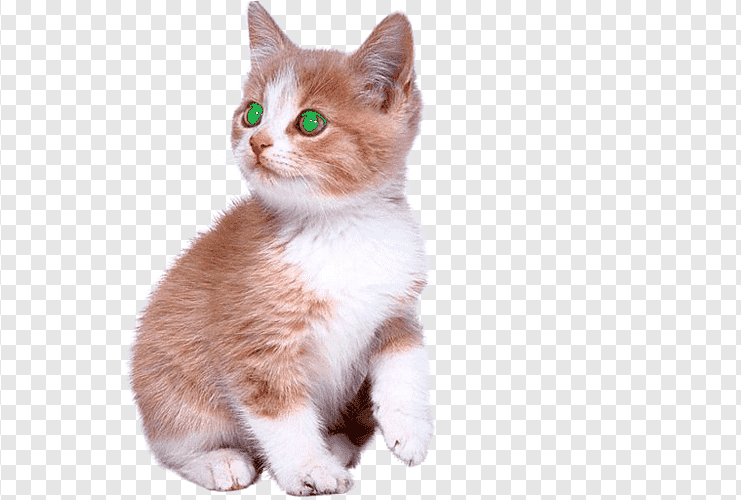
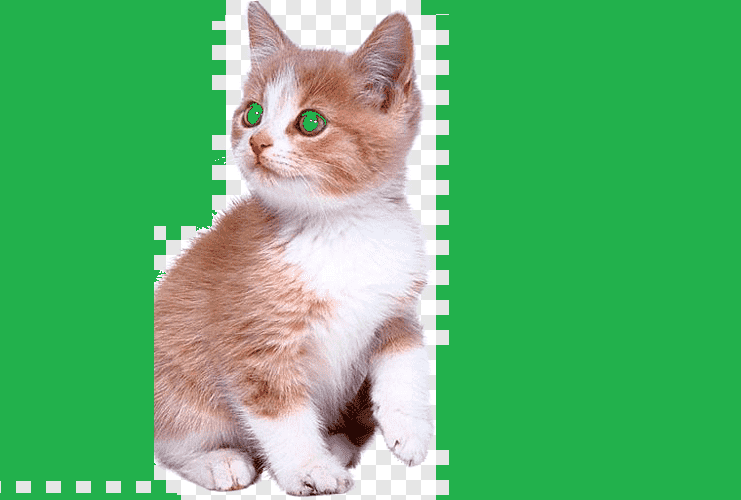
Adding images to the slider

diff --git a/src/software/software.html b/src/software/software.html
@@ -32,9 +32,9 @@
         </div>
         <div class="slider">
             <div class="imgs">
-                <div class="img">hello 1</div>
-                <div class="img">hello 2</div>
-                <div class="img">hello 3</div>
+                <div class="img"><img src="../../resources/img/cat.png" alt=""></div>
+                <div class="img"><img src="../../resources/img/cat-green.png" alt=""></div>
+                <div class="img"><img src="../../resources/img/cat-red.png" alt=""></div>
             </div>
             <div class="arrows">
                 <div class="left-arrow-container">

diff --git a/src/slider/slider.css b/src/slider/slider.css
@@ -25,6 +25,8 @@
     transform: translateX(0) scale(75%);
     z-index: -1;
     opacity: 0;
+    width:200px;
+    overflow: hidden;
 }
 .slider .imgs .img#active,
 .slider .imgs .img#next,
@@ -37,11 +39,11 @@
     z-index:0;
 }
 .slider .imgs .img#next{
-    transform: translateX(50px) scale(75%);
+    transform: translateX(130px) scale(75%);
     z-index:-1;
 }
 .slider .imgs .img#prev{
-    transform: translateX(-50px) scale(75%);
+    transform: translateX(-130px) scale(75%);
     z-index:-1;
 }
 .slider .arrows{
